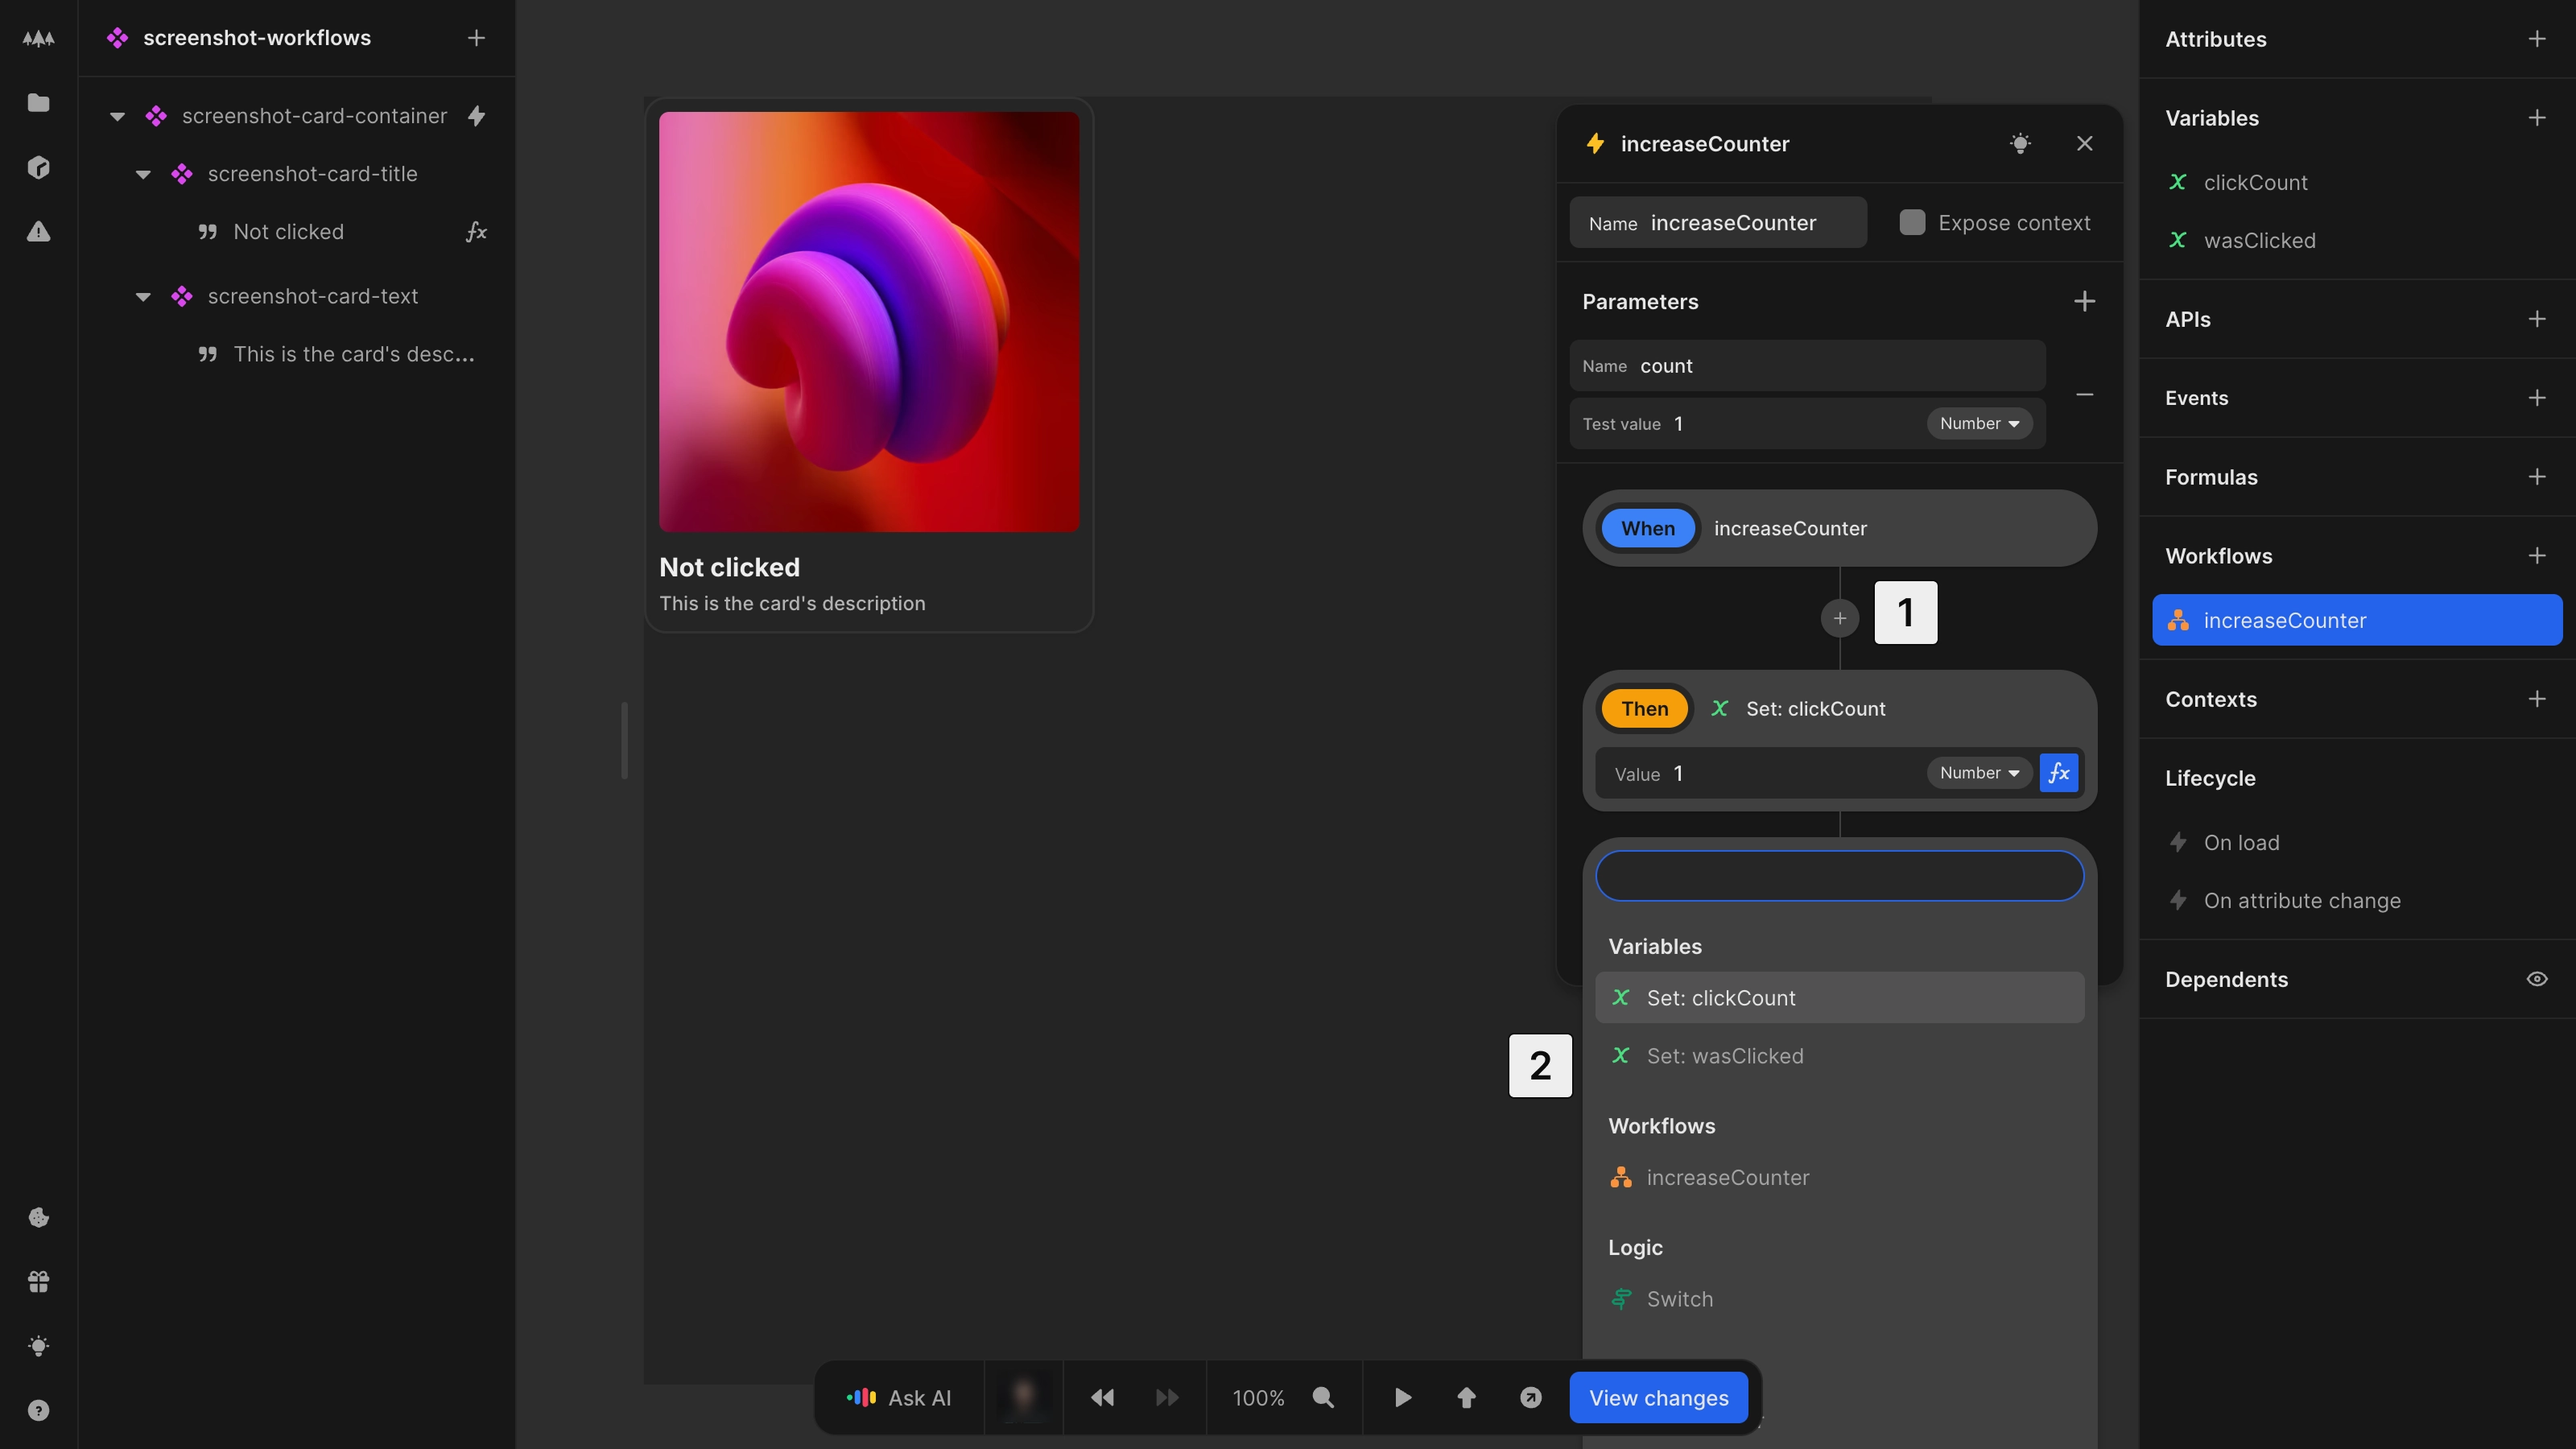
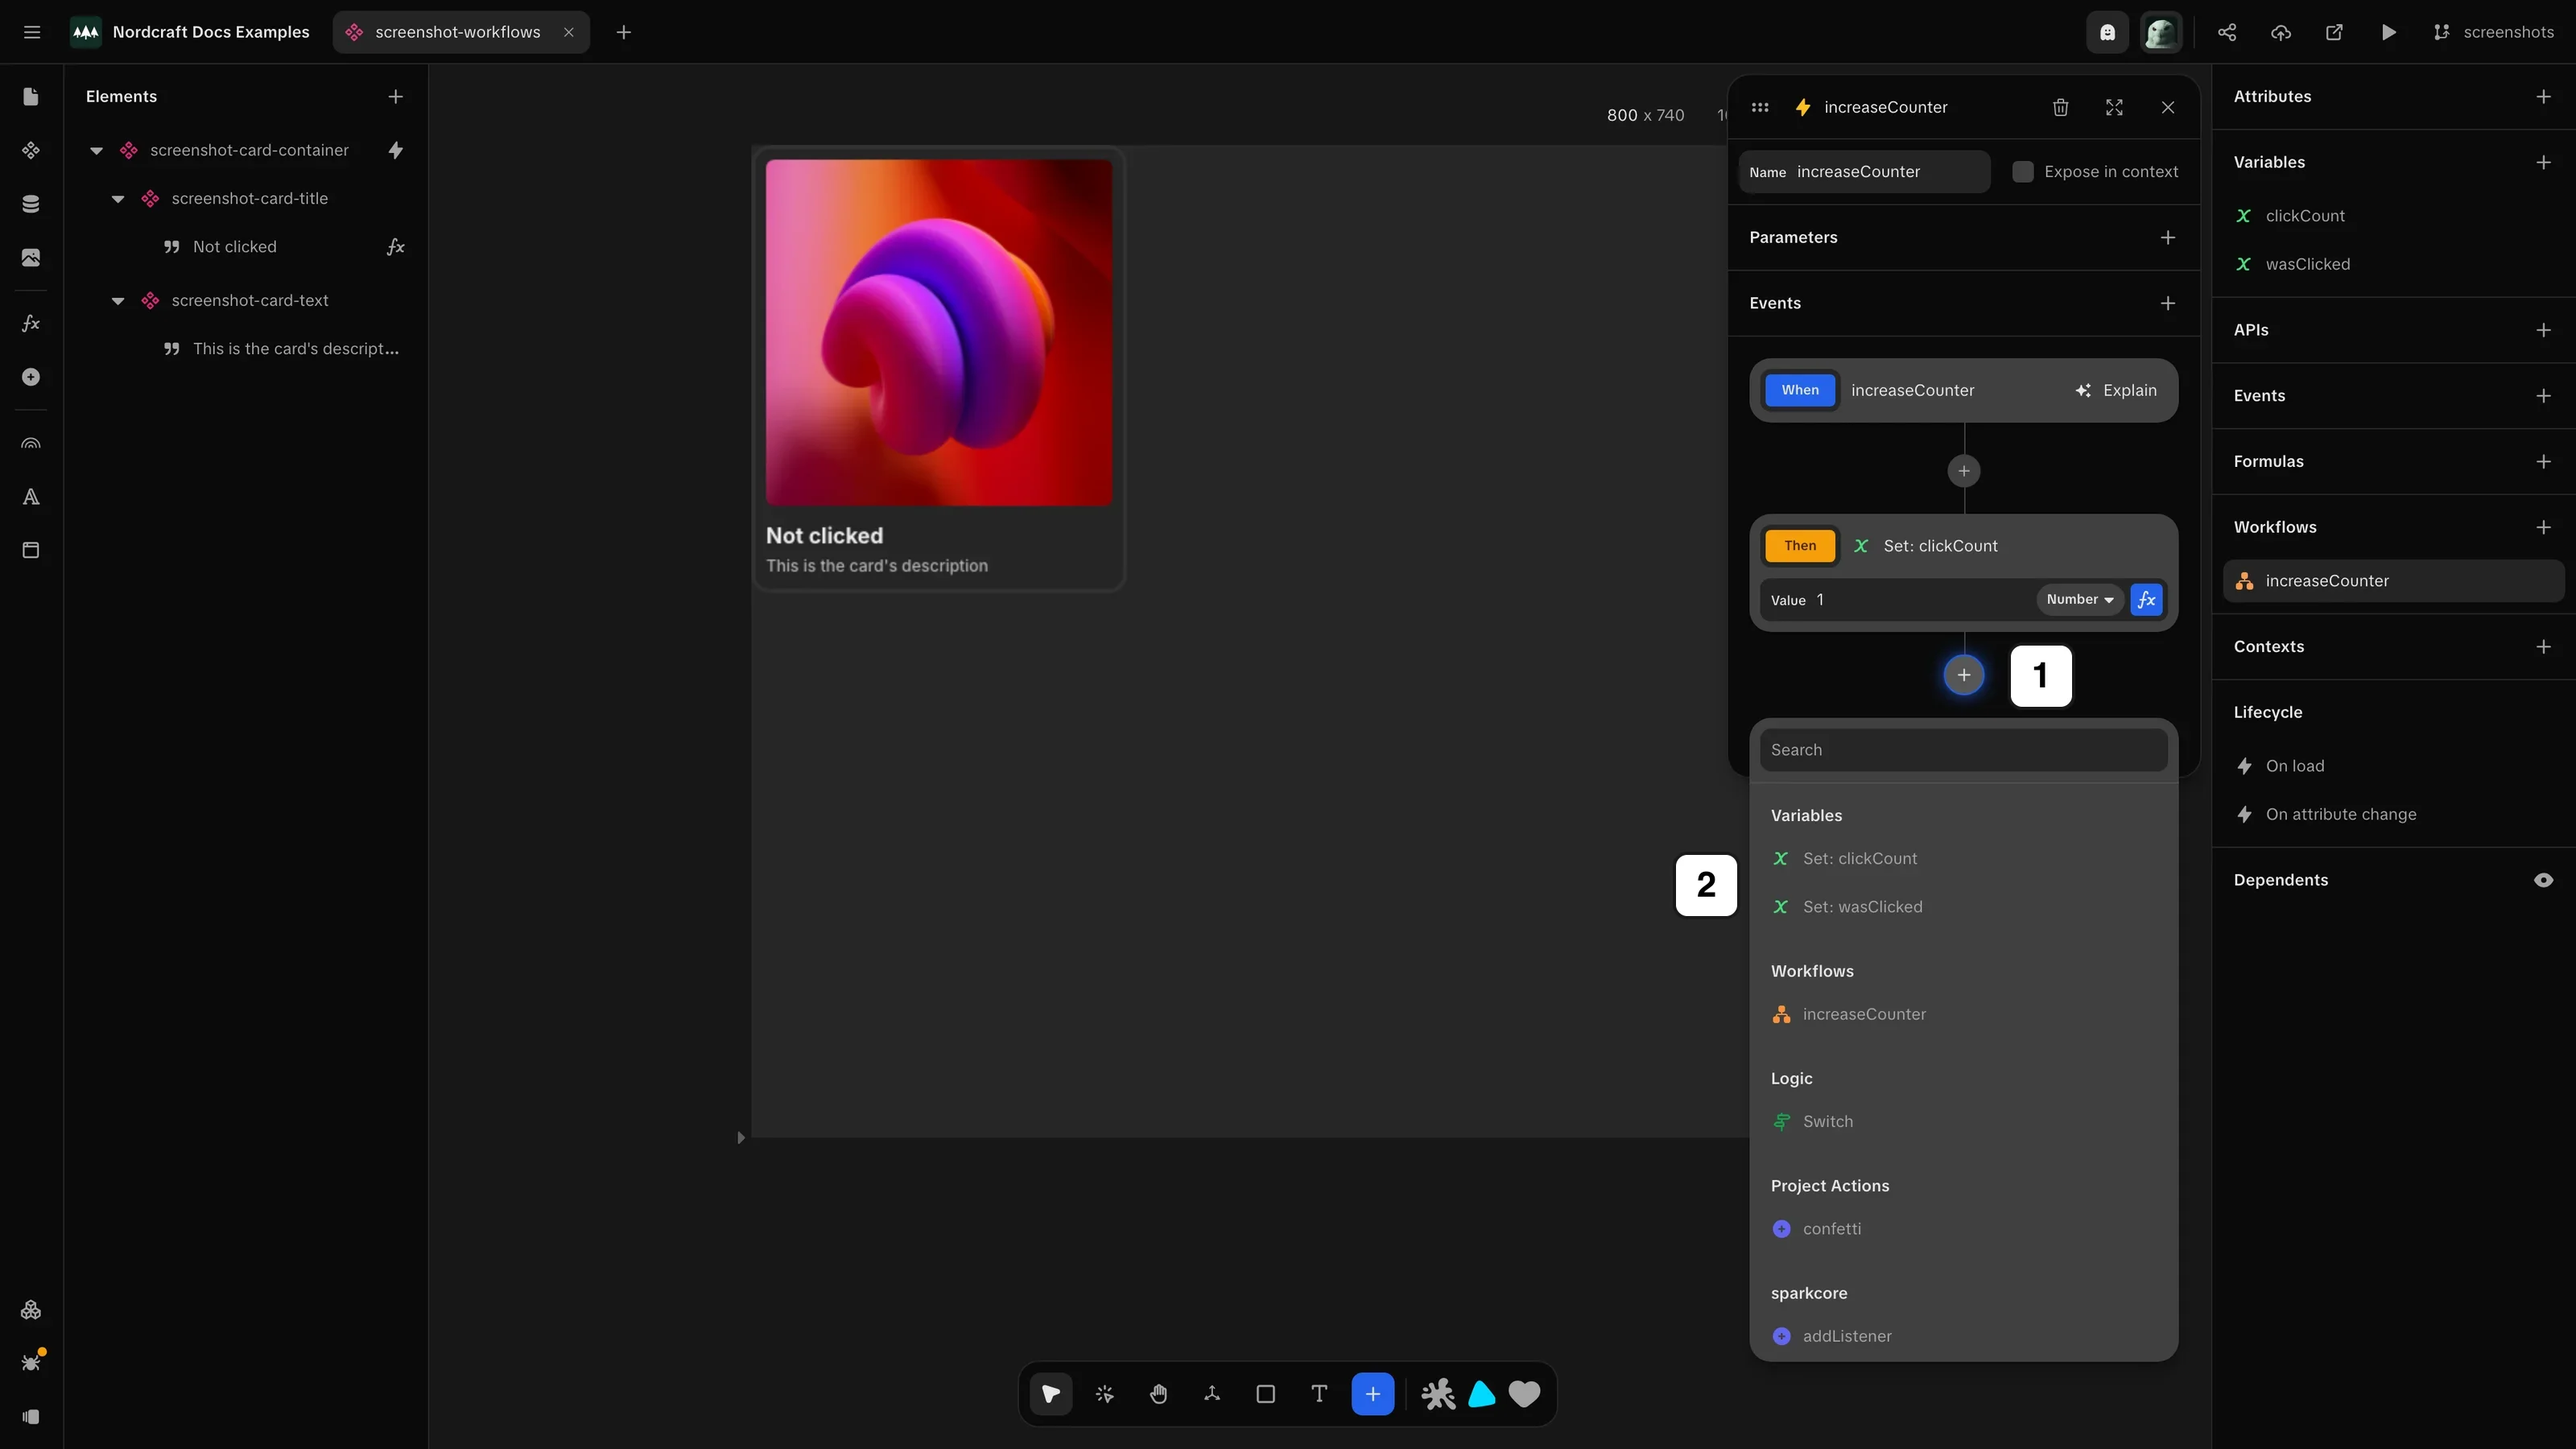
create workflow node

diff --git a/docs/workflows/working-with-workflows/create-workflow-node.screenshot.ts b/docs/workflows/working-with-workflows/create-workflow-node.screenshot.ts
@@ -1,0 +1,30 @@
+import { defineScreenshot } from '@/scripts/capture-screenshots'
+import type { Page } from 'playwright'
+
+// Placeholder script for create-workflow-node.webp
+export default defineScreenshot({
+  path: '/projects/docs_examples/branches/screenshots/components/screenshot-workflows?mode=design&canvas-tool=select&canvas-width=800&selection=workflows.Zpfk7v&rightpanel=style',
+  setup: async (page: Page) => {
+    await page.waitForTimeout(500)
+    await page
+      .locator('li[data-component="WorkflowActionList"]', {
+        hasText: 'clickCount',
+      })
+      .locator('button:has([data-component="icon-plus"])')
+      .click()
+  },
+  annotations: [
+    {
+      type: 'badge',
+      x: 624,
+      y: 200,
+      text: '1'
+    },
+    {
+      type: 'badge',
+      x: 520,
+      y: 265,
+      text: '2'
+    }
+  ],
+})
